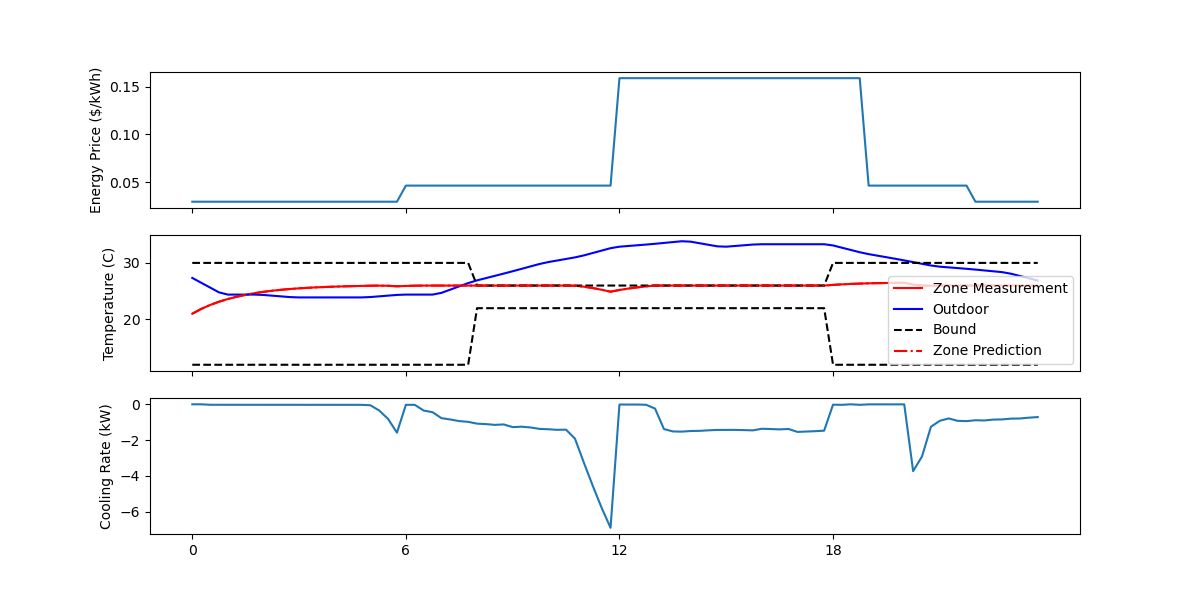
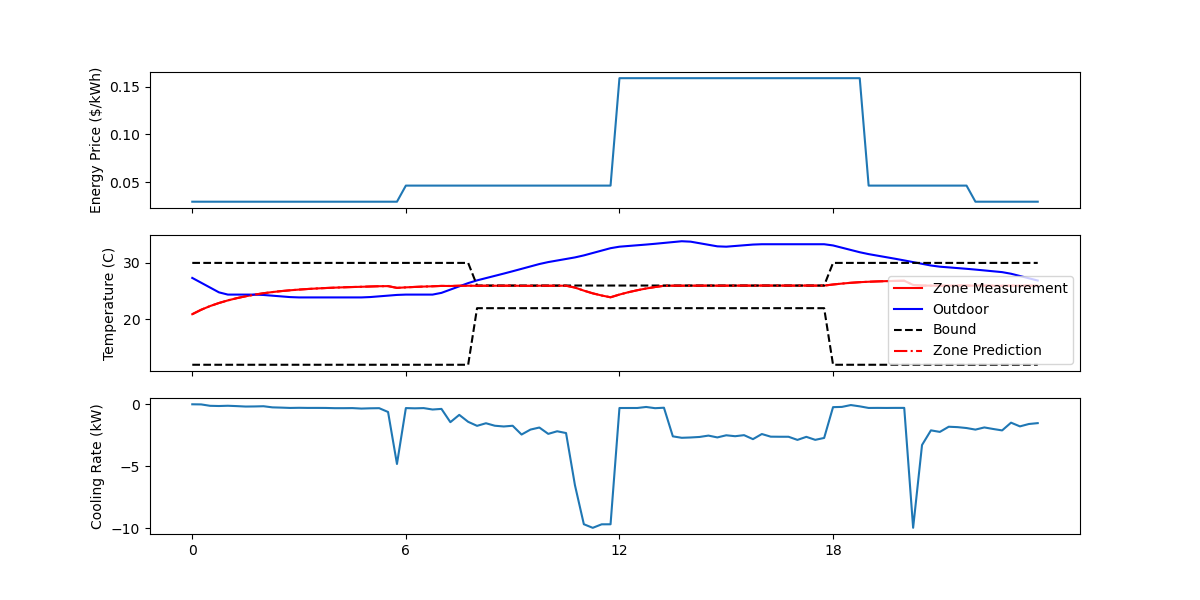
clean debugging files

diff --git a/resources/tutorials/jax/parameter_inference.py b/resources/tutorials/jax/parameter_inference.py
@@ -146,14 +146,22 @@ ts = 0
 te = ts + n_train*dt
 solver = Euler()
 
+# scale parameters
+scale = jnp.array([3.0E4, 5.0E5, 5.0E6, 10., 5., 10., 50., 36.0, 30.0])
+#scale = jnp.array([1.0E5, 3.0E4, 5.0E5, 5., 5., 5., 5., 36.0, 30.0])
 # forward steps
 f = lambda t, x, args: zone_state_space(t, x, *args)#args[0], args[1], args[2]) 
-def forward_parameters(p, x, ts, te, dt, solver, d):
+def forward_parameters(p, x, ts, te, dt, solver, d, scale):
     """
     p is [Cai, Cwe, Cwi, Re, Ri, Rw, Rg, Twe0, Twi0]
     x is Tz0
     """
-    Cai, Cwe, Cwi, Re, Ri, Rw, Rg, Twe0, Twi0 = p['rc']
+    #Cai, Cwe, Cwi, Re, Ri, Rw, Rg, Twe0, Twi0 = p['rc']
+    rc_norm = p['rc']
+    rc = rc_norm*scale
+    # scale up to normal range
+    Cai, Cwe, Cwi, Re, Ri, Rw, Rg, Twe0, Twi0 = rc
+
     A, B, C, D = get_ABCD(Cai, Cwe, Cwi, Re, Ri, Rw, Rg)
     args = (A, B, d)
 
@@ -165,7 +173,7 @@ def forward_parameters(p, x, ts, te, dt, solver, d):
 
     return t, x 
 
-model = lambda p,x: forward_parameters(p, x, ts, te, dt, solver, d)
+model = lambda p,x: forward_parameters(p, x, ts, te, dt, solver, d, scale)
 model = jit(model)
 
 # loss function
@@ -178,7 +186,7 @@ def loss_fcn(p, x, y_true, p_lb, p_ub):
 
     norm = (p['rc'] - p_lb)/ (p_ub - p_lb)
     reg = jnp.linalg.norm(norm, 2)
-    return loss + penalty + 10*reg
+    return loss + penalty
 
 # data preparation
 d = data_train.values[:,:5]
@@ -228,27 +236,30 @@ def fit(data, n_epochs, params: optax.Params, optimizer: optax.GradientTransform
 
 ## Run optimization for inference
 # parameter settings
-p_lb = jnp.array([1.0E3, 1.0E4, 1.0E5, 1.0, 1E-02, 1.0, 1.0E-1, 20.0, 20.0])
-p_ub = jnp.array([1.0E5, 1.0E6, 1.0E8, 10., 10., 100., 10., 35.0, 30.0])
-
+#p_lb = jnp.array([1.0E3, 1.0E4, 1.0E5, 1.0, 1E-01, 1.0, 1.0, 20.0, 20.0])
+#p_ub = jnp.array([1.0E5, 3.0E4, 3.0E5, 10., 1., 10., 10., 35.0, 30.0])
+p_lb = jnp.array([0.1, 0.1, 0.1, 0.1, 0.1, 0.1, 0.1, 0.6, 0.65])
+p_ub = jnp.array([1., 1., 1., 1., 1., 1., 1., 1., 1.])
 #p0 = jnp.array([9998.0869140625, 99998.0859375, 999999.5625, 9.94130802154541, 0.6232420802116394, 1.1442776918411255, 5.741048812866211, 34.82638931274414, 26.184139251708984])
 
 p0 = p_ub
+p0 = jnp.array([0.5, 0.5, 0.5, 0.5, 0.5, 0.5, 0.5, 0.8, 0.8])
+
 x0 = jax.device_put(y_train[0])
 print(p0, x0)
 print(loss_fcn({'rc':p0}, x0, y_train, p_lb, p_ub))
 
-n_epochs = 1000000
+n_epochs = 100000#5000000
 schedule = optax.exponential_decay(
-    init_value = 0.1, 
-    transition_steps = 500000, 
+    init_value = 1e-4, 
+    transition_steps = 150000, 
     decay_rate = 0.99, 
     transition_begin=0, 
     staircase=False, 
-    end_value=1e-06
+    end_value=1e-05
 )
 optimizer = optax.chain(
-    optax.adabelief(learning_rate = schedule)
+    optax.adamw(learning_rate = 1e-04)
 )
 
 initial_params = {'rc': p0}
@@ -264,7 +275,7 @@ te = ts + n*dt
 d = data.values[:, :5]
 y = data.values[:, 5]
 forward_ts = time.time()
-model = lambda p,x: forward_parameters(p, x, ts, te, dt, solver, d)
+model = lambda p,x: forward_parameters(p, x, ts, te, dt, solver, d, scale)
 t_pred, ys_pred = model(params, x0)
 forward_te = time.time()
 print(f"single forward simulation costs {forward_te-forward_ts} s!")
@@ -281,6 +292,12 @@ plt.legend()
 plt.savefig('parameter_inference.png')
 
 # save the parameters
-params_tolist = [float(p) for p in params['rc']]
+params_tolist = [float(p) for p in params['rc']*scale]
 with open('zone_coefficients.json', 'w') as f:
     json.dump(params_tolist,f)
+
+A, B, C, D = get_ABCD(*initial_params['rc'][:-2])
+print(jnp.linalg.eig(A))
+
+A, B, C, D = get_ABCD(*params['rc'][:-2])
+print(jnp.linalg.eig(A))

diff --git a/resources/tutorials/jax/optimal_control_mpc_jit.py b/resources/tutorials/jax/optimal_control_mpc_jit.py
@@ -321,11 +321,11 @@ if __name__ == '__main__':
     # get predictor
     predictor = {}
     # [Cai, Cwe, Cwi, Re, Ri, Rw, Rg]
-    #predictor['zone_model'] = jnp.array([6.9789902e+03, 2.1591113e+04, 1.8807944e+05, 3.4490612e+00,
-    #                                  4.9556872e-01, 9.8289281e-02, 4.6257420e+00])
-    predictor['zone_model'] = jnp.array([10838.6513671875, 1000000.0, 10000000.0,
-                                         8.894198417663574, 0.5456274747848511,
-                                         1.047658085823059, 9.346653938293457])
+    predictor['zone_model'] = jnp.array([6.9789902e+03, 2.1591113e+04, 1.8807944e+05, 3.4490612e+00,
+                                      4.9556872e-01, 9.8289281e-02, 4.6257420e+00])
+    # A set of large RC, which wont produce sufficient precooling.
+    #predictor['zone_model'] = jnp.array([10384.31640625, 499089.09375, 1321535.125,
+    #                                    1.5348844528198242, 0.5000327825546265, 1.000040054321289, 20.119935989379883])
     # get zone model
     Cai, Cwe, Cwi, Re, Ri, Rw, Rg = predictor['zone_model']
     A, B, C, D = get_ABCD(Cai, Cwe, Cwi, Re, Ri, Rw, Rg)
@@ -344,7 +344,7 @@ if __name__ == '__main__':
 
     # initial state for rc zone
     # state = jnp.array([20, 27.21, 26.76])
-    state = jnp.array([20, 34.8, 26.])    
+    state = jnp.array([20, 35.8, 26.])    
     # initialize random seeds for noises in measurements
     keys = random.split(key, int((te-ts)/dt))
     mu_noise = 0.

diff --git a/resources/tutorials/jax/optimal_control_mpc.py b/resources/tutorials/jax/optimal_control_mpc.py
@@ -124,7 +124,7 @@ class MPC():
             params = optax.apply_updates(params, updates)
 
             #rel_error = jnp.abs(loss - loss_prev)/max(loss_prev, 1e-12)
-            if epoch % 10 == 0:
+            if epoch % 100 == 0:
                 print(f'epoch {epoch}, training loss: {loss}')
             #print(f'epoch {epoch}, training loss: {loss}, relative loss: {rel_error}')
 

diff --git a/README.md b/README.md
@@ -42,7 +42,10 @@ This repo implements a differentiable simulator for building energy systems to s
 - Bayesian calibration
 - Bayesian optimization -> for control what is this?
 
-## MPC -> stotistical MPC
+## MPC
+
+The example shew with large RC, the first-order gradient method that requires tuning cannot generate sufficient precooling control sequence, which is counter-intuitive. 
+
 
 ## Model-based DRL
 
